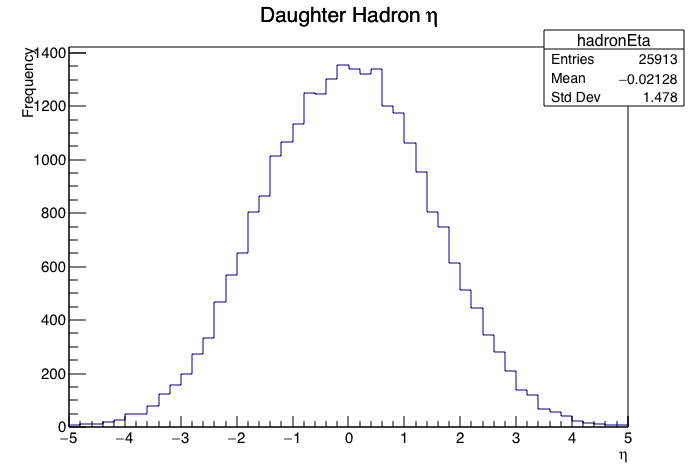
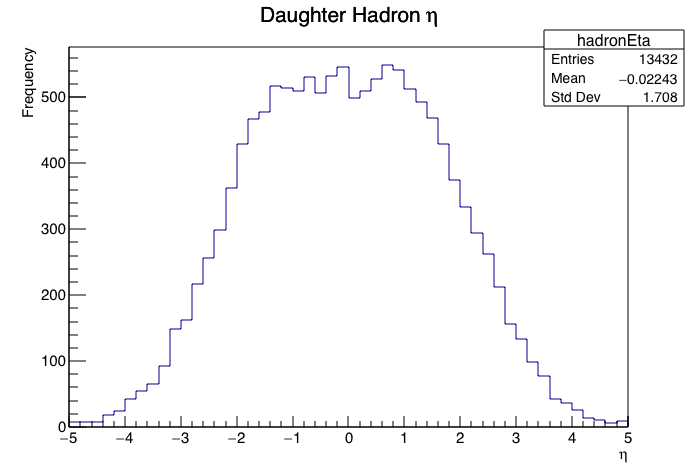
Updated code.

diff --git a/BranchingRatio.C b/BranchingRatio.C
@@ -26,28 +26,35 @@ R__LOAD_LIBRARY(libDelphes)
 #include <TChain.h>
 #include <TString.h>
 
-TH1D* muonPt = new TH1D("muonPt", "Muon P_{T}; P_{T}; Frequency", 50, -10, 500);
-TH1D* muonEta = new TH1D("muonEta", "Muon #eta; #eta; Frequency", 50, -2.5, 2.5);
+//  Delcare histograms.
+TH1D* muonPtHist = new TH1D("muonPt", "Muon P_{T}; P_{T}; Frequency", 50, -10, 500);
+TH1D* muonEtaHist = new TH1D("muonEta", "Muon #eta; #eta; Frequency", 50, -2.5, 2.5);
 
-TH1D* electronPt = new TH1D("electronPt", "Electron P_{T}; P_{T}; Frequency", 50, 0, 400);
-TH1D* electronEta = new TH1D("electronEta", "Electron #eta; #eta; Frequency", 50, -2.5, 2.5);
+TH1D* electronPtHist = new TH1D("electronPt", "Electron P_{T}; P_{T}; Frequency", 50, 0, 400);
+TH1D* electronEtaHist = new TH1D("electronEta", "Electron #eta; #eta; Frequency", 50, -2.5, 2.5);
 
-TH1D* jetPt = new TH1D("jetMass", "Jet P_{T}; Jet P_{T}; Frequency", 50, -1, 450);
-TH1D* jetEta = new TH1D("jetEta", "Jet Eta; Jet #eta; Frequency", 50, -5, 5);
+TH1D* jetPtHist = new TH1D("jetMass", "Jet P_{T}; Jet P_{T}; Frequency", 50, -1, 450);
+TH1D* jetEtaHist = new TH1D("jetEta", "Jet Eta; Jet #eta; Frequency", 50, -5, 5);
 
-TH1D* metMET = new TH1D("metMET", "Missing E_{T}; Missing E_{T}; Frequency", 50, -10, 300);
-TH1D* metEta = new TH1D("metEta", "Missing E_{T} #eta; #eta; Frequency", 50, -8, 8);
+TH1D* metMETHist = new TH1D("metMET", "Missing E_{T}; Missing E_{T}; Frequency", 50, -10, 300);
+TH1D* metEtaHist = new TH1D("metEta", "Missing E_{T} #eta; #eta; Frequency", 50, -8, 8);
 
-TH1D* daughterType = new TH1D("daughterType", "Distribution of Daughter Particles; PID; Frequency", 80, -20, 20);
-TH1D* hadronPt = new TH1D("hadronPt", "Daughter Hadron P_{T}; P_{T}; Frequency", 50, -10, 300);
-TH1D* hadronEta = new TH1D("hadronEta", "Daughter Hadron #eta; #eta; Frequency", 50, -5, 5);
-TH1D* leptonPt = new TH1D("leptonPt", "Daughter Lepton P_{T}; P_{T}; Frequency", 50, -5, 300);
-TH1D* leptonEta = new TH1D("leptonEta", "Daughter Lepton #eta; #eta; Frequency", 50, -5, 5);
+TH1D* daughterPIDHist = new TH1D("daughterPID", "Distribution of Daughter Particles; PID; Frequency", 80, -20, 20);
+TH1D* hadronPtHist = new TH1D("hadronPt", "Daughter Hadron P_{T}; P_{T}; Frequency", 50, -10, 300);
+TH1D* hadronEtaHist = new TH1D("hadronEta", "Daughter Hadron #eta; #eta; Frequency", 50, -5, 5);
+TH1D* leptonPtHist = new TH1D("leptonPt", "Daughter Lepton P_{T}; P_{T}; Frequency", 50, -5, 300);
+TH1D* leptonEtaHist = new TH1D("leptonEta", "Daughter Lepton #eta; #eta; Frequency", 50, -5, 5);
 
-//  Prints particle information in a table.
-void printParticle(GenParticle* particle, Int_t i) {
+//  Declare histogram array.
+TH1D* histogramArray[] = {muonPtHist, muonEtaHist, electronPtHist, jetPtHist, jetEtaHist, metMETHist, metEtaHist,
+			  daughterPIDHist, hadronPtHist, hadronEtaHist, leptonPtHist, leptonEtaHist};
+
+//  Delcare save directory.
+TString saveDirectory = "~/Work/MG-Pyth-Delphes/";
+
+void printParticleInfo(GenParticle* particle, Int_t index) {
   printf("\n %3d %6d %4d %4d %4d %5d %6d %6d %3d",
-	 i, particle -> PID, particle -> Status, particle -> IsPU, particle -> M1, particle -> M2,
+	 index, particle -> PID, particle -> Status, particle -> IsPU, particle -> M1, particle -> M2,
 	 particle -> D1, particle -> D2, particle -> Charge);
   printf("%9.2f %9.2f %9.2f %9.2f %9.2f %9.2f %9.2f %9.2f %9.2f %9.2f %9.2f %9.2f %7.2f %7.2f %7.2f %7.2f %7.2f",
 	 particle -> Mass,
@@ -58,47 +65,81 @@ void printParticle(GenParticle* particle, Int_t i) {
 	 particle -> T, particle -> X, particle -> Y, particle -> Z);
 }
 
-//  Fills muons histograms.
-void muonHist(TClonesArray* branchMuon) {
+void fillMuonHistograms(TClonesArray* branchMuon) {
   if (branchMuon -> GetEntries() > 0) {
     for (Int_t i = 0; i < branchMuon -> GetEntries(); ++i) {
       Muon* muon = (Muon*) branchMuon -> At(i);
-      muonPt -> Fill(muon -> PT);
-      muonEta -> Fill(muon -> Eta);
+      muonPtHist -> Fill(muon -> PT);
+      muonEtaHist -> Fill(muon -> Eta);
     }
   }
 }
 
-//  Fills electron histograms.
-void electronHist(TClonesArray* branchElectron) {
+void fillElectronHistograms(TClonesArray* branchElectron) {
   if (branchElectron -> GetEntries() > 0) {
     for (Int_t i = 0; i < branchElectron -> GetEntries(); ++i) {
       Electron* electron = (Electron*) branchElectron -> At(i);
-      electronPt -> Fill(electron -> PT);
-      electronEta -> Fill(electron -> Eta);
+      electronPtHist -> Fill(electron -> PT);
+      electronEtaHist -> Fill(electron -> Eta);
     }
   }
 }
 
-//  Fills jet histograms.
-void jetHist(TClonesArray* branchJet) {
+void fillJetHistograms(TClonesArray* branchJet) {
   if (branchJet -> GetEntries() > 0) {
     for (Int_t i = 0; i < branchJet -> GetEntries(); ++i) {
       Jet* jet = (Jet*) branchJet -> At(i);
-      jetPt -> Fill(jet -> PT);
-      jetEta -> Fill(jet -> Eta);
+      jetPtHist -> Fill(jet -> PT);
+      jetEtaHist -> Fill(jet -> Eta);
     }
   }
 }
 
-//  Fills MET histograms.
-void metHist(TClonesArray* branchMET) {
+void fillMETHistograms(TClonesArray* branchMET) {
   if (branchMET -> GetEntries() > 0) {
     for (Int_t i = 0; i < branchMET -> GetEntries(); ++i) {
       MissingET* met = (MissingET*) branchMET -> At(i);
-      metMET -> Fill(met -> MET);
-      metEta -> Fill(met -> Eta);
+      metMETHist -> Fill(met -> MET);
+      metEtaHist -> Fill(met -> Eta);
     }
+  }
+}
+
+bool hasMother(GenParticle* particle) {
+  return particle -> M1 != -1;
+}  
+
+bool isPhoton(GenParticle* particle) {
+  return particle -> PID == 22;
+}
+
+bool isWBoson(GenParticle* particle) {
+  return abs(particle -> PID) == 24;
+}
+
+bool hasDaughters(TClonesArray* branchParticle, GenParticle* particle) {
+  GenParticle* daughter1 = (GenParticle*) branchParticle -> At(particle -> D1);
+  return abs(daughter1 -> PID) != 24;
+}
+
+int getDaughterPID(TClonesArray* branchParticle, int index) {
+  GenParticle* daughter = (GenParticle*) branchParticle -> At(index);
+  return daughter -> PID;
+}
+
+bool isQuark(int PID) {
+  return abs(PID) < 6;
+}
+
+bool isLepton(int PID) {
+  return abs(PID) > 10 && abs(PID) < 17;
+}
+
+void saveHistograms() {
+  TCanvas* c = new TCanvas("c", "c");
+  for (auto histogram : histogramArray) {
+    histogram -> Draw();
+    c -> SaveAs(saveDirectory + histogram -> GetName() + ".png");
   }
 }
 
@@ -150,10 +191,10 @@ void BranchingRatio(const char *inputFile) {
   TClonesArray* branchJet = treeReader -> UseBranch("Jet");
   TClonesArray* branchMET = treeReader -> UseBranch("MissingET");
 
-  //  Bool to enable printing for particles.
-  bool print(0);
+  //  Bool to enable printing of particle info.
+  bool printParticle(0);
   
-  if (print) {
+  if (printParticle) {
     printf("\n \n %6s %3s %4s %1s %3s %4s %6s %6s %6s",
 	   "Index", "PID", "Status", "IsPU", "M1", "M2", "D1", "D2", "Charge");
     printf("%6s %7s %9s %10s %8s %10s %9s %8s %10s %9s %12s %6s %7s %6s %7s %7s %7s",
@@ -161,131 +202,79 @@ void BranchingRatio(const char *inputFile) {
 	   "D0", "DZ", "T", "X", "Y", "Z");
   std:cout << "\n--------------------------------------------------------------------------------------------------------------------------------------------------------------------------------------------------------------";
   }
-  
-  //  Vector to store PIDs of all W+- daughter particles of each event.
-  std::vector<std::vector<Int_t>> final_PID(numberOfEntries);
 
   //  Ints to track if decay is fully hardonic, semi-leptonic, or fully leptonic.
-  int full_hadron(0);
-  int semi_lept(0);
-  int full_lept(0);
+  int numFullyHadronic(0);
+  int numSemiLeptonic(0);
+  int numFullyLeptonic(0);
   
-  //  Loop over all events.
   for(Int_t entry = 0; entry < numberOfEntries; ++entry) {
-    //  Load selected branches with data from specified event.
-    treeReader->ReadEntry(entry);
+    treeReader -> ReadEntry(entry);
 
-    //  Fill muon pT and eta histograms.
-    muonHist(branchMuon);
+    fillMuonHistograms(branchMuon);
+    fillElectronHistograms(branchElectron);
+    fillJetHistograms(branchJet);
+    fillMETHistograms(branchMET);
 
-    //  Fill electron pT and eta histograms.
-    electronHist(branchElectron);
-
-    //  Fill jet pT and eta.
-    jetHist(branchJet);
-
-    //  Fill MET pT and eta.
-    metHist(branchMET);
-
-    //  Leptons are given a value of -1; hadrons are given a value of +1.
-    //  If fully hadronic, type_sum = 4; fully leptonic, type_sum = 4.
-    //  If semi-leptonic, -4 < type_sum < 4.
-    int type_sum(0);
-    
     //  Look in Particle branch.
     if (branchParticle -> GetEntries() > 0) {
+      //  Leptons are given a value of -1; hadrons are given a value of +1.
+      //  If fully hadronic, type_sum = 4; fully leptonic, type_sum = 4.
+      //  If semi-leptonic, -4 < type_sum < 4.
+      int decayTypeSum(0);
+
       for (Int_t i = 0; i < branchParticle -> GetEntries(); ++i) {
 	GenParticle *particle = (GenParticle*) branchParticle -> At(i);
        
-	if (print) {
-	  printParticle(particle, i);
+	if (printParticle) {
+	  printParticleInfo(particle, i);
 	}
-	
-	//  Use only particles with mothers.
-	if (particle -> M1 != -1) {
-	  GenParticle *mom = (GenParticle*) branchParticle -> At(particle -> M1);
-
-	  //  Get particles with W boson mom and that are not produced by final state showers.
-	  //  Neglecting the latter bool would yield a W boson as a daughter.
-	  if ((abs(mom -> PID) == 24 && particle -> Status < 50)) {
-	    final_PID[entry].push_back(particle -> PID);
-	    daughterType -> Fill(particle -> PID);
-
-	    //  Hadron daughters.
-	    if ((abs(particle -> PID)) < 9) {
-	      type_sum++;
-	      hadronPt -> Fill(particle -> PT);
-	      hadronEta -> Fill(particle -> Eta);
-	    }
-	    //  Lepton daughters.
-	    else if (abs(particle -> PID) > 9) {
-	      type_sum--;
-	      leptonPt -> Fill(particle -> PT);
-	      leptonEta -> Fill(particle -> Eta);
-	    }
+	//  Get W bosons that are not produced by final state showers.
+	//  Neglecting the latter bool would yield a W boson as a daughter.
+	if (isWBoson(particle) && hasDaughters(branchParticle, particle)) {
+	  GenParticle* daughterParticle1 = (GenParticle*) branchParticle -> At(particle -> D1);
+	  GenParticle* daughterParticle2 = (GenParticle*) branchParticle -> At(particle -> D2);
+	  daughterPIDHist -> Fill(daughterParticle1 -> PID);
+	  daughterPIDHist -> Fill(daughterParticle2 -> PID);
+	  
+	  if (isQuark(daughterParticle1 -> PID)) {
+	    decayTypeSum++;
+	    hadronPtHist -> Fill(particle -> PT);
+	    hadronEtaHist -> Fill(particle -> Eta);
+	  }
+	  
+	  else if (isLepton(daughterParticle1 -> PID)) {
+	    decayTypeSum = decayTypeSum + 3;
+	    leptonPtHist -> Fill(particle -> PT);
+	    leptonEtaHist -> Fill(particle -> Eta);
 	  }
 	}
-
+	
 	//  If all the daughter particles have been recovered,
 	//  then stop searching through this event to suppress bottlenecking.
-	if (final_PID[entry].size() == 4) {
+	if (decayTypeSum == 4) { 
+	  numFullyHadronic++;
+	  break;
+	}
+	else if (decayTypeSum == 12) {
+	  numFullyLeptonic++;
+	  break;
+	}
+	else if (decayTypeSum == 8) {
+	  numSemiLeptonic++;
 	  break;
 	}
       }
     }
-
-    //  Classify event.
-    if (type_sum == 4) {
-      full_hadron++;
-    }
-    else if (type_sum == -4) {
-      full_lept++;
-    }
-    else {
-      semi_lept++;
-    }
-
-    //  Reset type_sum for next event.
-    type_sum = 0;
   }
 
-  //  Save directory
-  TString directory = "~/Work/MG-Pyth-Delphes/";
-
   //  Save histograms.
-  TCanvas* c = new TCanvas("c");
-  muonPt -> Draw();
-  c -> SaveAs(directory + "muonPt.png");
-  muonEta -> Draw();
-  c -> SaveAs(directory + "muonEta.png");
-  electronPt -> Draw();
-  c -> SaveAs(directory + "electronPt.png");
-  electronEta -> Draw();
-  c -> SaveAs(directory + "electronEta.png");
-  jetPt -> Draw();
-  c -> SaveAs(directory + "jetPt.png");
-  jetEta -> Draw();
-  c -> SaveAs(directory + "jetEta.png");
-  metMET -> Draw();
-  c -> SaveAs(directory + "metMET.png");
-  metEta -> Draw();
-  c -> SaveAs(directory + "metEta.png");
-  daughterType -> Draw();
-  c -> SaveAs(directory + "DaughterType.png");
-  hadronPt -> Draw();
-  c -> SaveAs(directory + "hadronPt.png");
-  hadronEta -> Draw();
-  c -> SaveAs(directory + "hadronEta.png");
-  leptonPt -> Draw();
-  c -> SaveAs(directory + "leptonPt.png");
-  leptonEta -> Draw();
-  c -> SaveAs(directory + "leptonEta.png");
+  saveHistograms();
 
   //  Print fractions.
-  std::cout << numberOfEntries << std::endl;
-  std::cout << "Simulated fraction fully hadronic: " << full_hadron / (double)  numberOfEntries <<std::endl;
-  std::cout << "Simulated fraction fraction full leptonic: " << full_lept / (double) numberOfEntries << std::endl;
-  std::cout << "Simulated fraction semi-leptonic: " << semi_lept / (double) numberOfEntries << std::endl;
+  std::cout << "Simulated fraction fully hadronic: " << numFullyHadronic / (double)  numberOfEntries <<std::endl;
+  std::cout << "Simulated fraction fraction full leptonic: " << numFullyLeptonic / (double) numberOfEntries << std::endl;
+  std::cout << "Simulated fraction semi-leptonic: " << numSemiLeptonic / (double) numberOfEntries << std::endl;
 
   //  Experimental observations of W decay from PDG 2016.
   double decay_hadron_obs = 0.6741;
